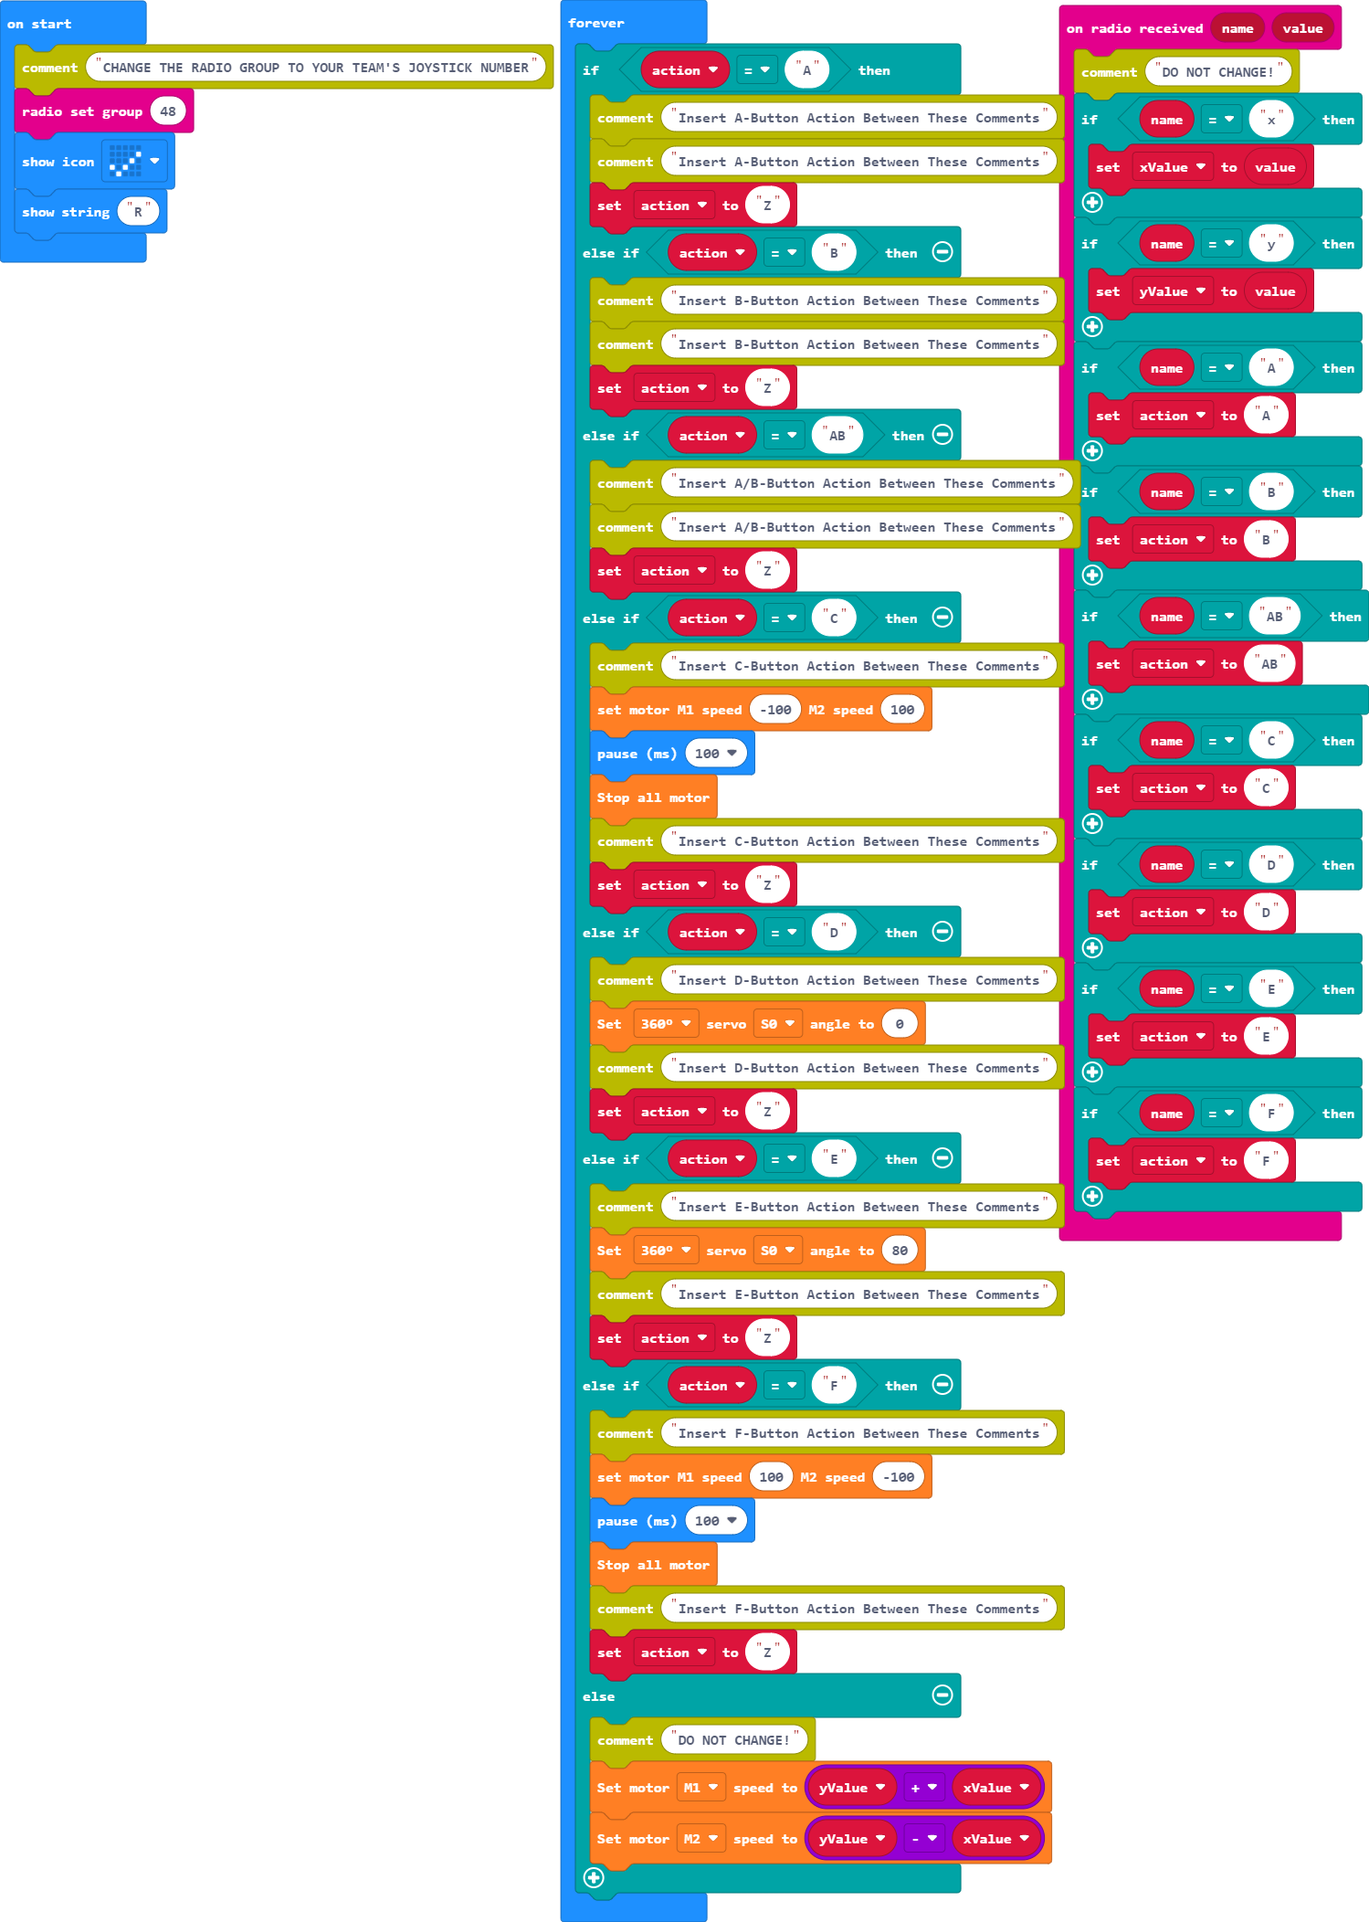
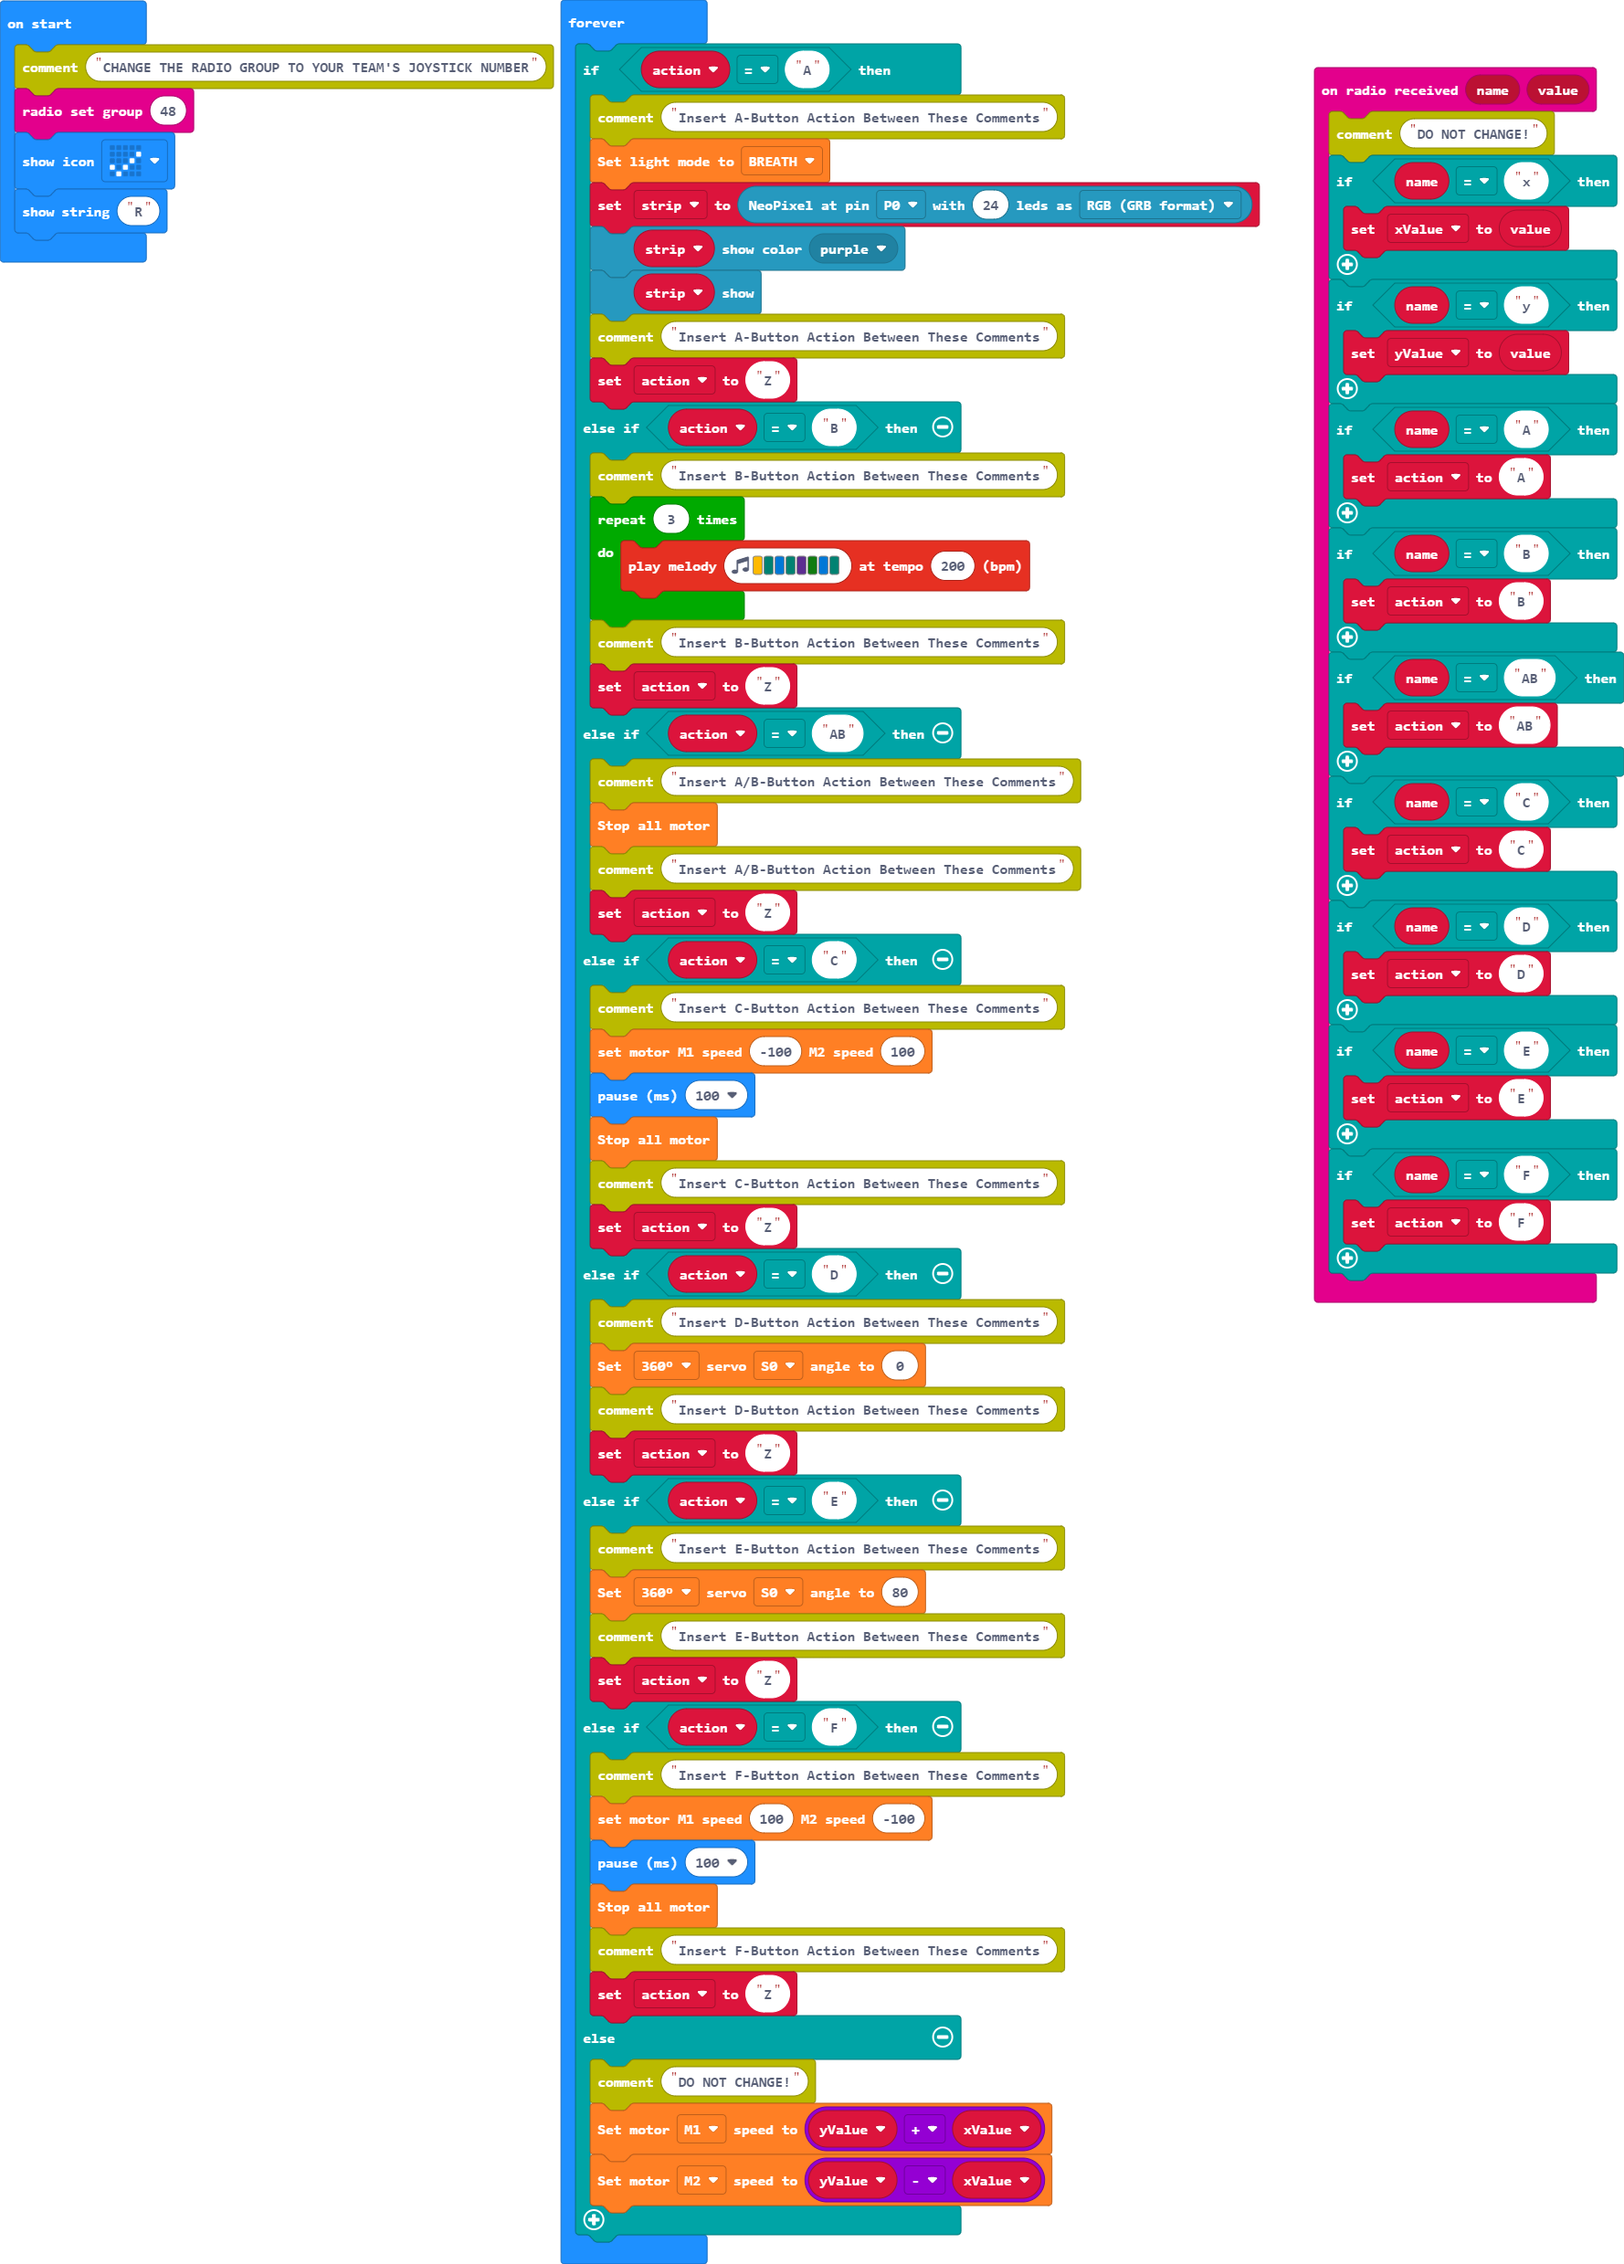
Update main.blocks, main.ts

diff --git a/main.ts b/main.ts
@@ -28,6 +28,7 @@ radio.onReceivedValue(function (name, value) {
         action = "F"
     }
 })
+let strip: neopixel.Strip = null
 let action = ""
 let yValue = 0
 let xValue = 0
@@ -38,14 +39,22 @@ basic.showString("R")
 basic.forever(function () {
     if (action == "A") {
         comment.comment("Insert A-Button Action Between These Comments")
+        wuKong.setLightMode(wuKong.LightMode.BREATH)
+        strip = neopixel.create(DigitalPin.P0, 24, NeoPixelMode.RGB)
+        strip.showColor(neopixel.colors(NeoPixelColors.Purple))
+        strip.show()
         comment.comment("Insert A-Button Action Between These Comments")
         action = "Z"
     } else if (action == "B") {
         comment.comment("Insert B-Button Action Between These Comments")
+        for (let index = 0; index < 3; index++) {
+            music.playMelody("A F E F D G E F ", 200)
+        }
         comment.comment("Insert B-Button Action Between These Comments")
         action = "Z"
     } else if (action == "AB") {
         comment.comment("Insert A/B-Button Action Between These Comments")
+        wuKong.stopAllMotor()
         comment.comment("Insert A/B-Button Action Between These Comments")
         action = "Z"
     } else if (action == "C") {
